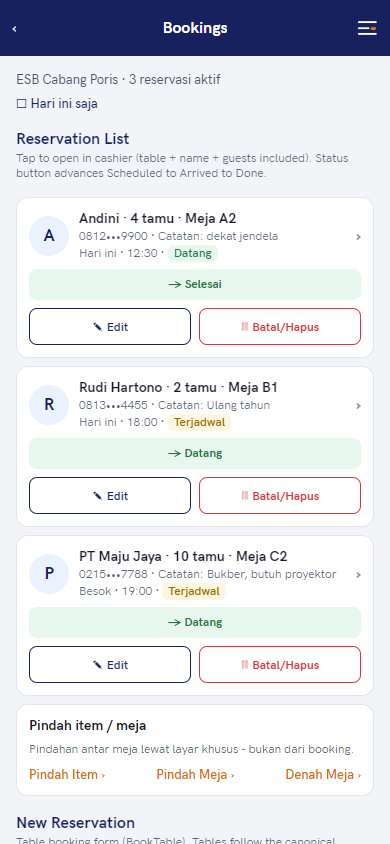
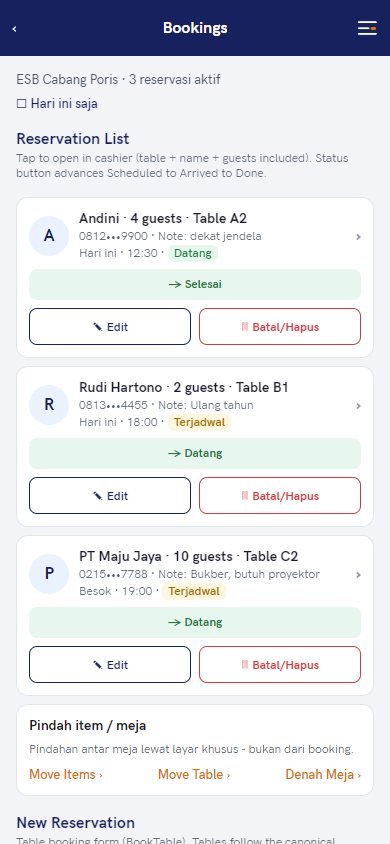
docs: audit + visual re-verify wave-2 (10 PNG segar)
Fondasi Input/Button/radius tercatat, sapu i18n 5 layar DONE,
held tanpa-kunci + migrasi fondasi dicatat permanen. Visual:
nol kunci mentah, nol error/blank, badge Bill-1/TOTAL/Note render.

diff --git a/docs/AUDIT-1V1.md b/docs/AUDIT-1V1.md
@@ -82,7 +82,8 @@ Detail gap per file ada di output workflow; ringkasan jadi TODO bernomor di bawa
 - "tablet-login +header dossier:91" (Login headerShown:false, tanpa visual = UNKNOWN); "samakan PIN 6 (dossier:91)" (dossier hanya sebut pin_code tanpa angka)
 
 ### LANE-SAYA (izinkan sentuh — file saya / netral; fixer re-run di sini)
-✅ SEBAGIAN SELESAI 2026-10-16 (aeb07c1, tsc EXIT 0): ikon drawer + logout reset Drawer/Dashboard + dot shift drawer/dashboard + guard CTA + komentar responsive + CartDetail (`Simpan`/`itemNotes`/`cartNotePh` → t(), teruskan memberId + params penuh ke BillPreview sehingga mock TRX-047 tertutup saat navigasi berparams, `Cetak` tanpa campur bahasa). SISA lane-saya: Shift-i18n hardcode, state absensi tak pulih, baris Istirahat placeholder, widget tablet rekap dossier, shared Input/Button/token radius.
+✅ SEBAGIAN SELESAI 2026-10-16 (aeb07c1, tsc EXIT 0): ikon drawer + logout reset Drawer/Dashboard + dot shift drawer/dashboard + guard CTA + komentar responsive + CartDetail (`Simpan`/`itemNotes`/`cartNotePh` → t(), teruskan memberId + params penuh ke BillPreview sehingga mock TRX-047 tertutup saat navigasi berparams, `Cetak` tanpa campur bahasa).
+✅ WAVE-2 2026-10-16 (6d4dfa4, tsc EXIT 0, visual 10/10 PNG phone+tablet): fondasi BARU `src/components/Input.tsx` + `Button.tsx` (kanonis Login h56 r14 font14) + `src/theme/radius.ts` (tanpa migrasi — batch berikut); sapu i18n kunci-baku di MoveTable/SplitBill/Receipt/Voucher/Booking (14 key terverifikasi ada, NOL key baru, NOL kunci mentah bocor di shot). Held tercatat: literal tanpa kunci (CustomMenu STATIONS/meta, MoveTable label seed, SplitBill METHODS kontrak-Pay, Member/Voucher label, Booking sisa 282-287, Receipt DAYS/MONTHS selaras fix Pay worker) + migrasi fondasi. SISA lane-saya: Shift-i18n hardcode, state absensi tak pulih, baris Istirahat placeholder, widget tablet rekap dossier. SISA AKHIR wave-1: Cashier header kustom (S3 by-design).
 - Drawer: pasang ikon nav_* (8 file ADA di assets/icons) DrawerMenu.tsx:97-105; logout reset stack (DrawerMenu:120-124 + Dashboard:207-210); titik shift prop kondisional (DrawerMenu:145 vs Cashier:623)
 - Dashboard: badge online statis + kartu shift tanpa dot (233-237,250); guard per-CTA Transaksi Baru (266-268)
 - Shift-i18n: hardcode ID Shift/EndShift/Recap-RANGES → t() (allowlist: file saya bila hijau, koordinasi worker)
